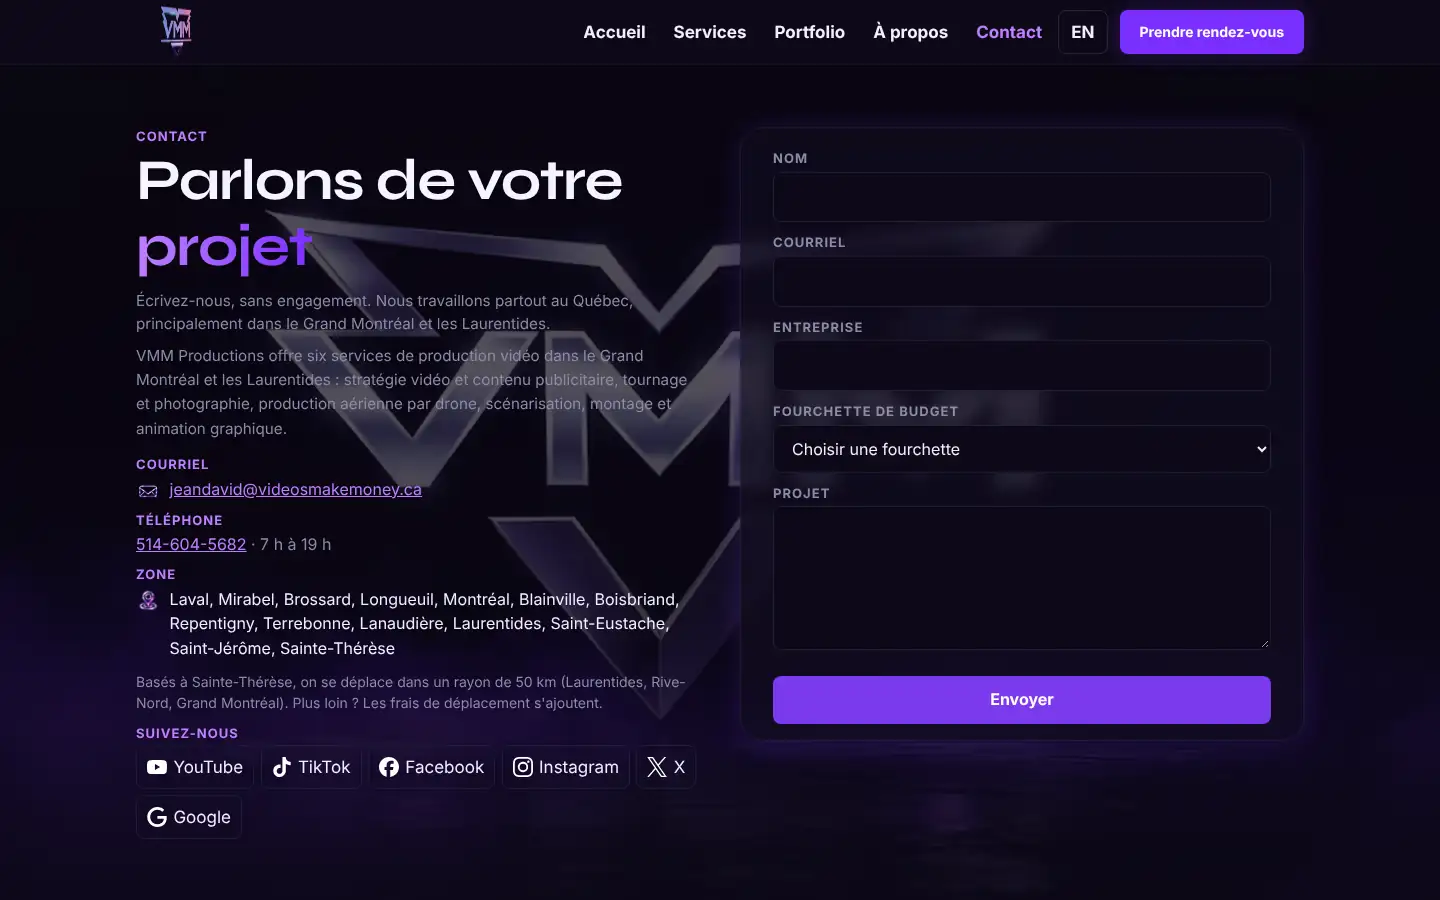
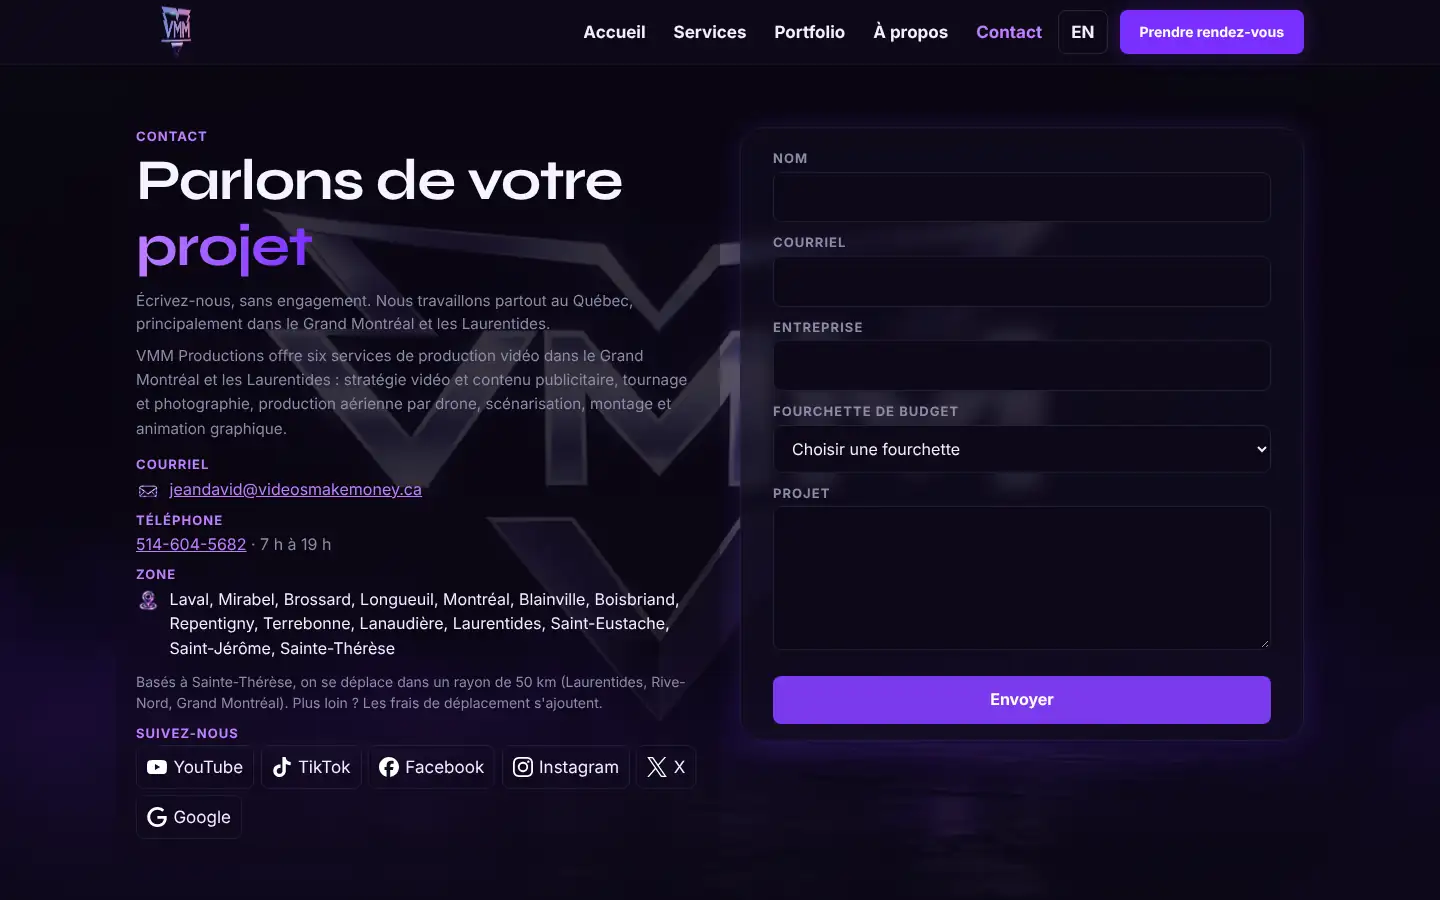
A1 : rectangle aussi sur les héros des pages de zones et l'écran 1 de Contact
Vérification point par point contre la liste exhaustive de JD (A1–A10, B1–B4) : textes identiques mot pour mot ; seul écart corrigé, « dans toutes les pages du site » pour le rectangle.

Claude-Session: https://claude.ai/code/session_017C8rnEM7qNRWSnvn4sjvoh

diff --git a/src/styles.css b/src/styles.css
@@ -1945,6 +1945,27 @@ html[lang^="fr"] .is-visible .contact-icon img { animation: svc-draw 1.4s var(--
   .pf-shelf .pf-coulisses-text .jd-lead { font-size: .92rem; }
 }
 
+/* A1 — « dans toutes les pages du site » : aussi les héros des pages de zones et l'écran 1 de Contact
+   (même noir, même opacité réduite de moitié ; bords fondus) */
+html[lang^="fr"] .zone-hero > .container, html[lang^="fr"] .page-contact .contact-info { position: relative; isolation: isolate; }
+html[lang^="fr"] .zone-hero > .container::before {
+  content: ""; position: absolute; z-index: -1; pointer-events: none;
+  left: calc(50% - 50vw); width: 100vw; top: -2.5rem; bottom: -2.5rem;
+  background: linear-gradient(180deg, rgba(13, 9, 23, 0) 0, rgba(13, 9, 23, var(--rect-a)) 2.5rem,
+    rgba(13, 9, 23, var(--rect-a)) calc(100% - 2.5rem), rgba(13, 9, 23, 0) 100%);
+}
+html[lang^="fr"] .page-contact .contact-info::before {
+  content: ""; position: absolute; z-index: -1; pointer-events: none;
+  inset: -1.25rem; border-radius: 1rem; background: rgba(13, 9, 23, var(--rect-a));
+}
+@media (max-width: 959px) {
+  html[lang^="fr"] .page-contact .contact-info::before {
+    inset: 0 auto 0 calc(50% - 50vw); width: 100vw; border-radius: 0;
+    background: linear-gradient(180deg, rgba(13, 9, 23, 0) 0, rgba(13, 9, 23, var(--rect-a)) 1.5rem,
+      rgba(13, 9, 23, var(--rect-a)) calc(100% - 1.5rem), rgba(13, 9, 23, 0) 100%);
+  }
+}
+
 /* C10 — Pages des entreprises : titre centré à l'horizontale, même hauteur et même couleur */
 .collection-title.is-centered { text-align: center; margin-inline: auto; width: 100%; }
 

diff --git a/docs/qa/2026-11-14-jd/NOTES.md b/docs/qa/2026-11-14-jd/NOTES.md
@@ -21,6 +21,7 @@ Estimation sur captures : luminance du fond derrière le paragraphe du héros (p
 | Portfolio | 11,0:1 | 10,4:1 |
 | À propos | 14,2:1 | 12,4:1 |
 | Tapis Rouge (page client) | — | 5,7:1 |
+Le rectangle s'applique aussi aux héros des pages de zones et à l'écran 1 de Contact (ajout du 15 nov., « dans toutes les pages du site »).
 Tout reste au-dessus de 4,5:1 sur les instants mesurés. Une image plus claire de la vidéo pourrait descendre plus bas : à revoir sur l'aperçu.
 
 ## Animation du titre (C1/C2)
